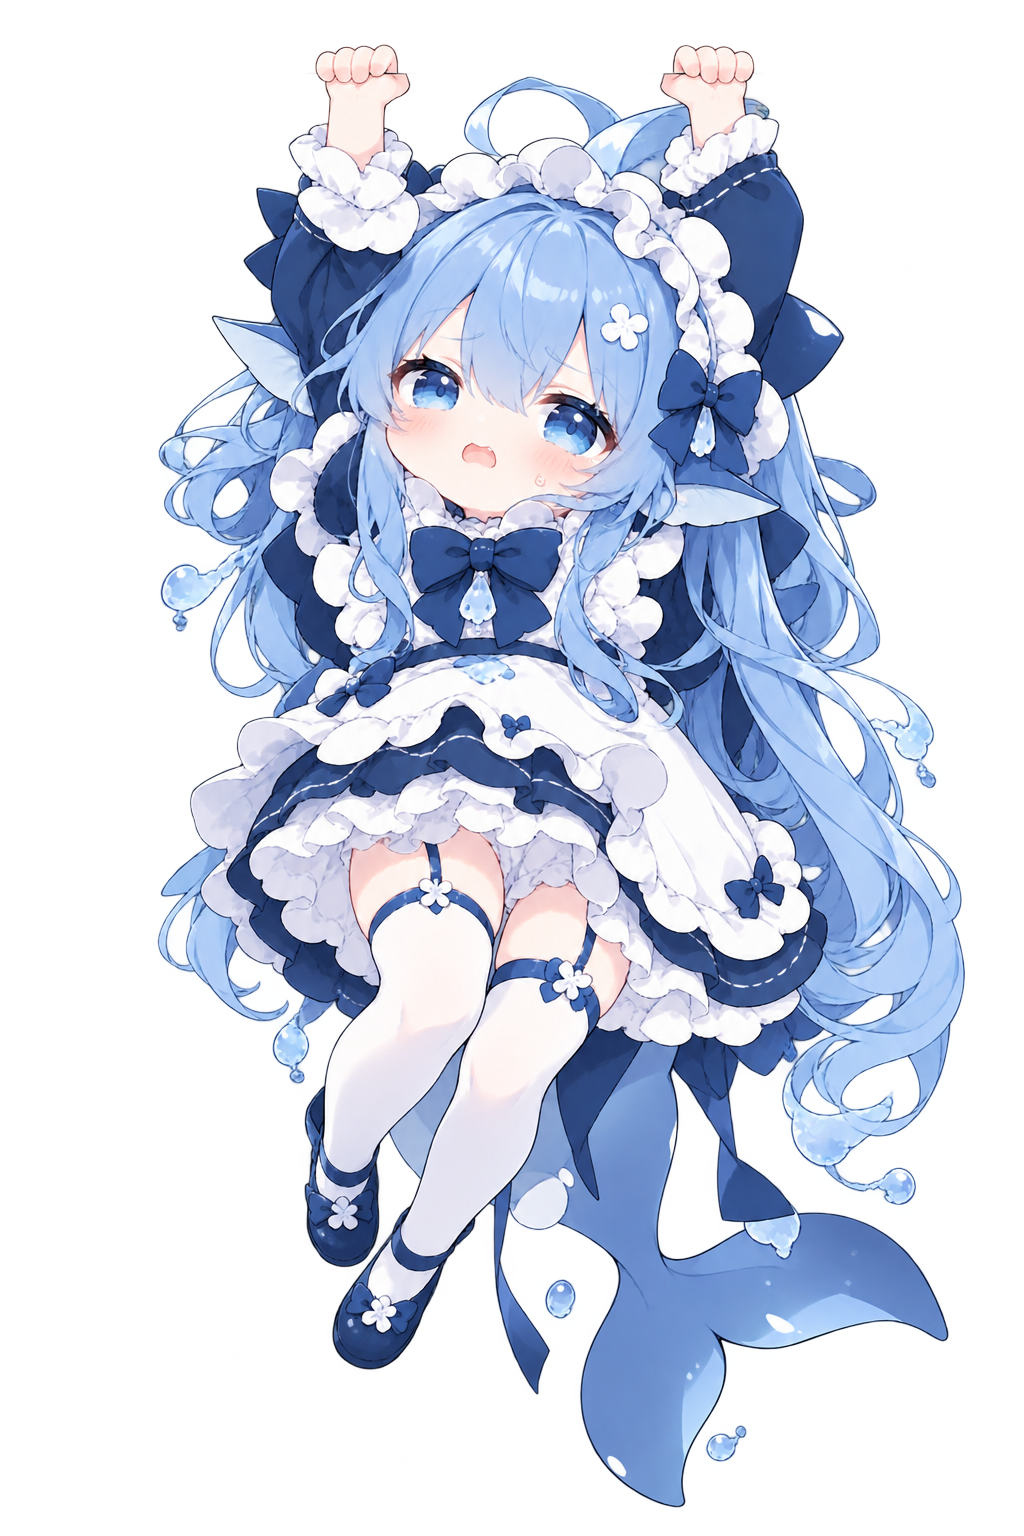
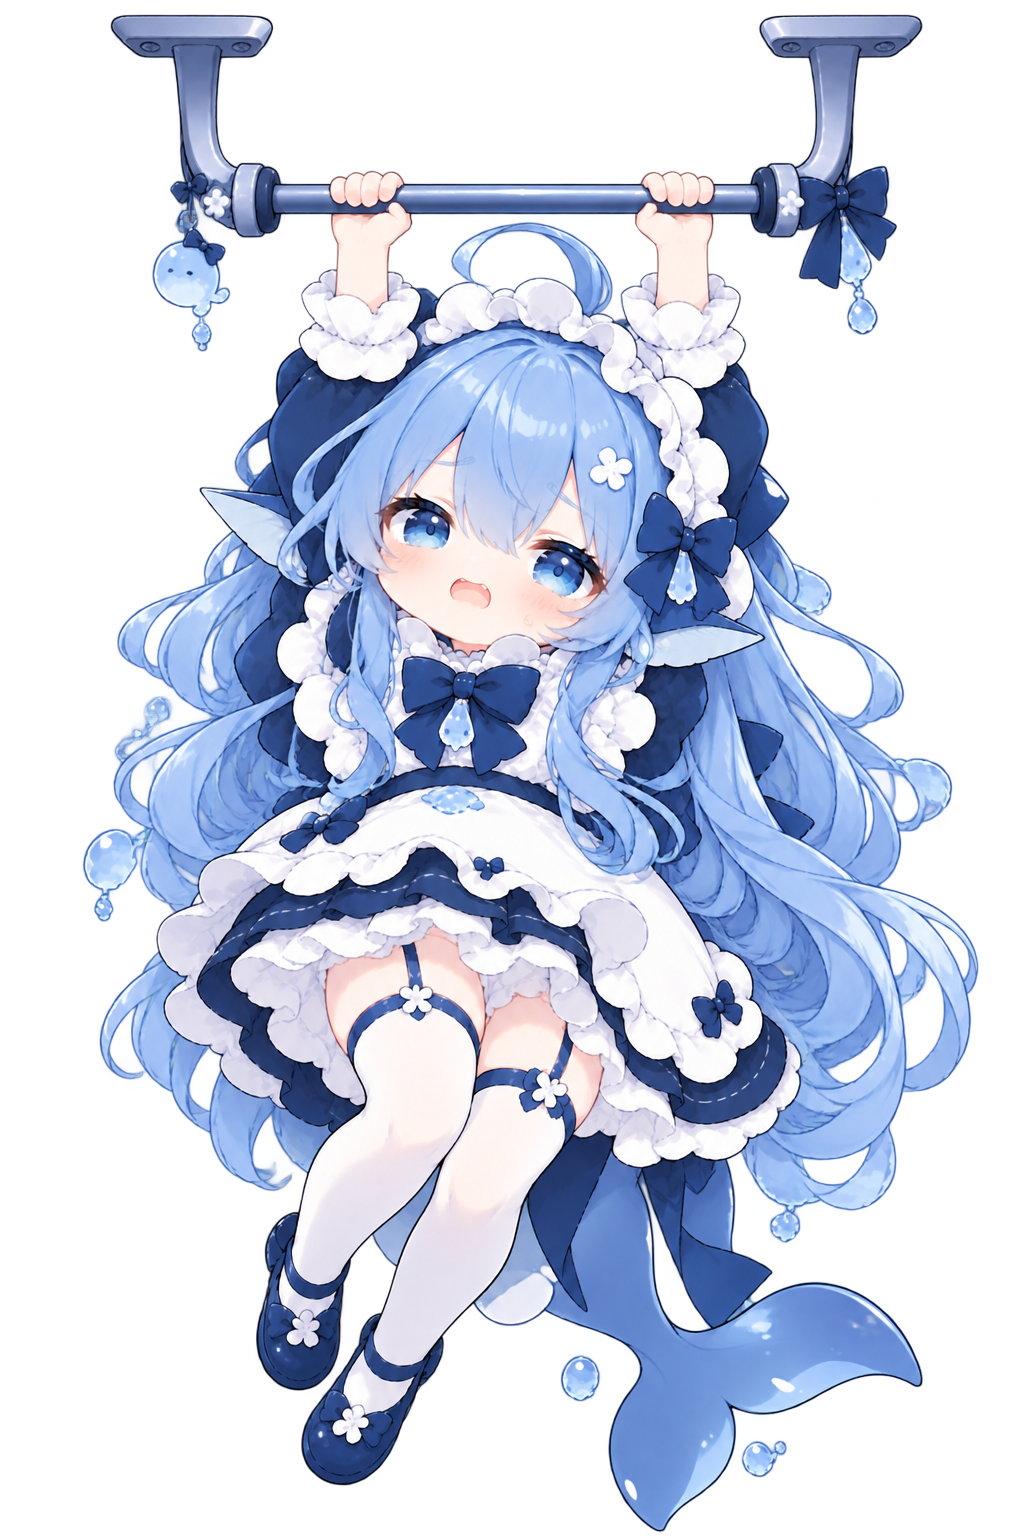
feat(capsule): 挂件换用带单杠衔接图，并重算挂点定位
- 换图：顶部固定支架直接压在胶囊下沿，不再靠手抓空衔接

- PENDANT_HEIGHT_DP 96 -> 108：补上新增支架与竖杆高度，角色本体不缩小

- PENDANT_LIFT_DP 18 -> 15：图顶 y=12px 的支架上沿精确贴住胶囊本体底边 54dp

- 新增 PENDANT_SHIFT_DP = 12：整体右移约屏宽 3%

- 窗口 flags 与尺寸逻辑未动，FLAG_NOT_TOUCHABLE 保证死区仍为 0

diff --git a/app/src/main/kotlin/io/github/mangi/eta/agent/runtime/AgentRuntimeService.kt b/app/src/main/kotlin/io/github/mangi/eta/agent/runtime/AgentRuntimeService.kt
@@ -1108,7 +1108,8 @@ internal class AgentRuntimeService : Service(), LifecycleOwner, SavedStateRegist
         ).apply {
             gravity = Gravity.TOP or Gravity.CENTER_HORIZONTAL
             // 胶囊在胶囊窗口内的底边约 54dp（上下各 6dp 留白 + 48dp 本体），
-            // 再往上提 18dp，让角色看起来是扒在胶囊下沿而不是悬空。
+            // 再往上提 15dp，让图顶的固定支架压在胶囊下沿而不是悬空。
+            x = dpToPx(PENDANT_SHIFT_DP)
             y = statusBarHeightPx() + dpToPx(CAPSULE_COLLAPSED_HEIGHT_DP - PENDANT_LIFT_DP)
             windowAnimations = 0
         }
@@ -1529,11 +1530,13 @@ internal class AgentRuntimeService : Service(), LifecycleOwner, SavedStateRegist
 
         /** 挂在胶囊下方的二次元角色图（assets 内置资源）。 */
         private const val PENDANT_ASSET = "overlay_pendant.png"
-        private const val PENDANT_HEIGHT_DP = 96
+        private const val PENDANT_HEIGHT_DP = 108
         private const val PENDANT_WIDTH_RATIO = 0.667f
+        /** 水平右移量：0 表示屏幕居中。 */
+        private const val PENDANT_SHIFT_DP = 12
 
-        /** 挂件顶边上提量：让角色扒在胶囊下沿。 */
-        private const val PENDANT_LIFT_DP = 18
+        /** 挂件顶边上提量：让图顶的固定支架压在胶囊下沿。 */
+        private const val PENDANT_LIFT_DP = 15
         private const val CAPSULE_CONTROLS_HEIGHT_DP = 124
         private const val CAPSULE_SUPPLEMENT_HEIGHT_DP = 260
         /** 注入点击只是一个点，目标控件常贴着胶囊边缘，判定范围向外多留一点。 */
